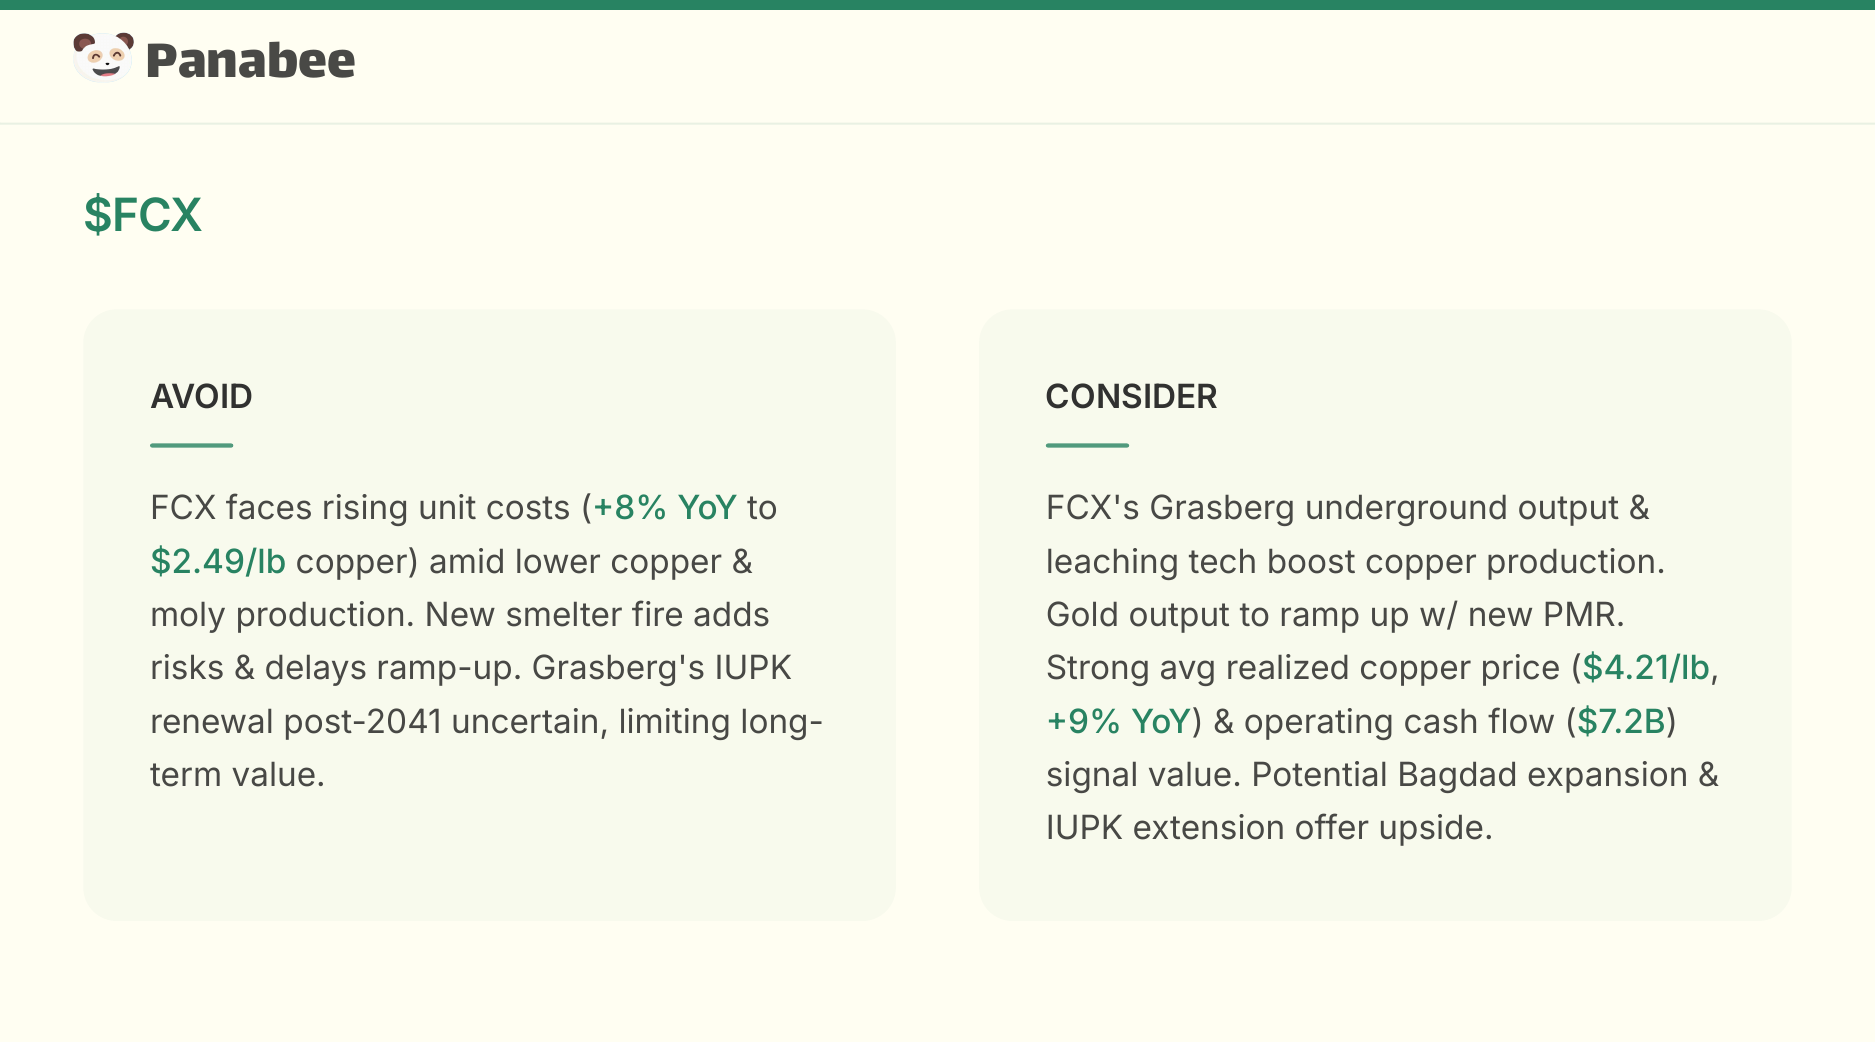
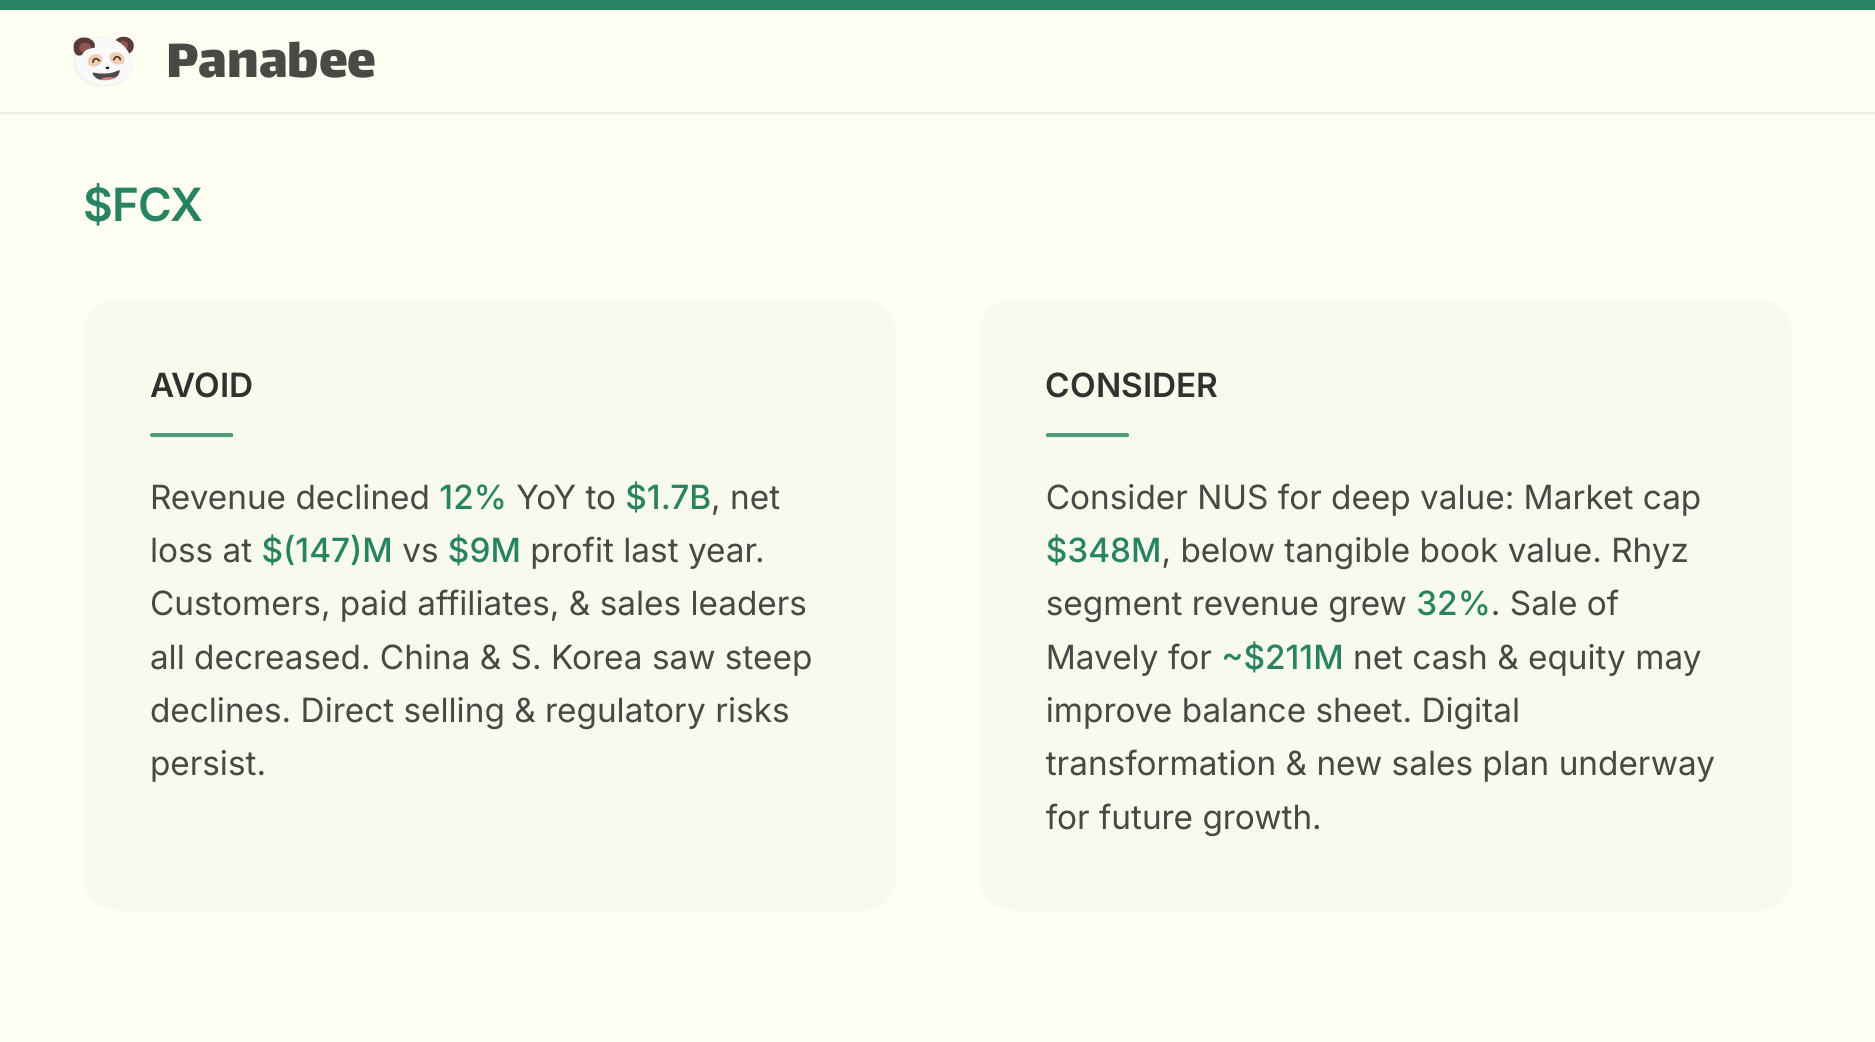
fixed

diff --git a/html.html b/html.html
@@ -1,10 +1,11 @@
+
 <!DOCTYPE html>
 <html>
 <head>
   <link href="https://fonts.googleapis.com/css2?family=Inter:wght@300;400;500;600&family=Lalezar&display=swap" rel="stylesheet">
   <style>
   @page {
-    size: 900px 490px; /* Adjust height as needed */
+    size: 900px 500px; /* Adjust height as needed */
     margin: 0;
   }
     body {
@@ -27,10 +28,11 @@
       background: #288362;
     }
     .header {
-      padding: 5px 30px;
+      padding-top: 5px;
+      padding-left: 30px;
+
       display: flex;
-      align-items: center;
-      gap: 100px;
+      align-items:center;
       border-bottom: 1px solid rgba(40, 131, 98, 0.1);
     }
     .logo {
@@ -40,8 +42,10 @@
       top: -2px;
     }
     .wordmark {
+      margin-left: 10px;
       color: rgba(28, 28, 28, 0.8);
       font-family: 'Lalezar', 'Inter', sans-serif;
+      height:fit-content;
       font-size: 28px;
     }
     .content {
@@ -106,15 +110,15 @@
       <div class="wordmark">Panabee</div>
     </div>
     <div class="content">
-      <div class="ticker">$FCX</div>
+      <div class="ticker">{ticker}</div>
       <div class="analysis-grid">
         <div class="analysis-section-horizontal">
           <h2>AVOID</h2>
-          <p class="analysis-content">FCX faces rising unit costs (<span class="stat">+8% YoY</span> to <span class="stat">$2.49/lb</span> copper) amid lower copper & moly production. New smelter fire adds risks & delays ramp-up. Grasberg's IUPK renewal post-2041 uncertain, limiting long-term value.</p>
+          <p class="analysis-content">{avoid}</p>
         </div>
         <div class="analysis-section-horizontal">
           <h2>CONSIDER</h2>
-          <p class="analysis-content">FCX's Grasberg underground output & leaching tech boost copper production. Gold output to ramp up w/ new PMR. Strong avg realized copper price (<span class="stat">$4.21/lb</span>, <span class="stat">+9% YoY</span>) & operating cash flow (<span class="stat">$7.2B</span>) signal value. Potential Bagdad expansion & IUPK extension offer upside.</p>
+          <p class="analysis-content">{consider}</p>
         </div>
       </div>
     </div>

diff --git a/HTMLtoImage.py b/HTMLtoImage.py
@@ -1,6 +1,7 @@
 from weasyprint import HTML
 from pdf2image import convert_from_bytes
 from PIL import Image
+import re
 
 def html_to_image(html_content: str, output_file: str):
     
@@ -17,75 +18,77 @@ def html_to_image(html_content: str, output_file: str):
     final_image.save(output_file, 'PNG')
     print(f"Image saved to {output_file}")
 
-
-html_content = """
+def avoidAndConsder(avoid, consider):
+  ticker = "$FCX"
+  html_content = f"""
 <!DOCTYPE html>
 <html>
 <head>
   <link href="https://fonts.googleapis.com/css2?family=Inter:wght@300;400;500;600&family=Lalezar&display=swap" rel="stylesheet">
   <style>
-  @page {
+  @page {{
     size: 900px 500px; /* Adjust height as needed */
     margin: 0;
-  }
-    body {
+  }}
+    body {{
       margin: 0;
       padding: 0;
       background: #FFFEF2;
       font-family: 'Inter', sans-serif;
       -webkit-font-smoothing: antialiased;
-    }
-    .container {
+    }}
+    .container {{
       width: 900px;
       min-height: 400px;
       background: #FFFEF2;
       position: relative;
       padding-bottom: 40px;
-    }
-    .top-bar {
+    }}
+    .top-bar {{
       width: 100%;
       height: 5px;
       background: #288362;
-    }
-    .header {
-      padding: 5px 30px;
+    }}
+    .header {{
+      padding-top: 5px;
+      padding-left: 30px;
       display: flex;
-      gap: 10px;
+      align-items:center;
       border-bottom: 1px solid rgba(40, 131, 98, 0.1);
-    }
-    .logo {
+    }}
+    .logo {{
       width: 40px;
       height: 40px;
       position: relative;
-      top: -2px;
-    }
-    .wordmark {
+    }}
+    .wordmark {{
+      margin-left: 10px;
       color: rgba(28, 28, 28, 0.8);
       font-family: 'Lalezar', 'Inter', sans-serif;
       font-size: 28px;
-    }
-    .content {
+    }}
+    .content {{
       padding: 30px 40px 40px;
-    }
-    .ticker {
+    }}
+    .ticker {{
       font-size: 22px;
       font-weight: 600;
       color: #288362;
       margin: 0 0 32px 0;
       letter-spacing: -0.5px;
-    }
-    .analysis-grid {
+    }}
+    .analysis-grid {{
       display: grid;
       grid-template-columns: 1fr 1fr;
       gap: 40px;
       margin-top: 20px;
-    }
-    .analysis-section-horizontal {
+    }}
+    .analysis-section-horizontal {{
       background: rgba(40, 131, 98, 0.03);
       border-radius: 16px;
       padding: 32px;
-    }
-    .analysis-section-horizontal h2 {
+    }}
+    .analysis-section-horizontal h2 {{
       font-size: 16px;
       font-weight: 600;
       margin: 0 0 16px 0;
@@ -93,8 +96,8 @@ html_content = """
       display: inline-block;
       position: relative;
       padding-bottom: 15px;
-    }
-    .analysis-section-horizontal h2::after {
+    }}
+    .analysis-section-horizontal h2::after {{
       content: '';
       position: absolute;
       bottom: 0;
@@ -104,18 +107,18 @@ html_content = """
       background: #288362;
       border-radius: 2px;
       opacity: 0.8;
-    }
-    .analysis-content {
+    }}
+    .analysis-content {{
       font-size: 16px;
       line-height: 1.6;
       margin: 0;
       color: rgba(28, 28, 28, 0.8);
       font-weight: 400;
-    }
-    .stat {
+    }}
+    .stat {{
       color: #288362;
       font-weight: 500;
-    }
+    }}
   </style>
 </head>
 <body>
@@ -126,15 +129,15 @@ html_content = """
       <div class="wordmark">Panabee</div>
     </div>
     <div class="content">
-      <div class="ticker">$FCX</div>
+      <div class="ticker">{ticker}</div>
       <div class="analysis-grid">
         <div class="analysis-section-horizontal">
           <h2>AVOID</h2>
-          <p class="analysis-content">FCX faces rising unit costs (<span class="stat">+8% YoY</span> to <span class="stat">$2.49/lb</span> copper) amid lower copper & moly production. New smelter fire adds risks & delays ramp-up. Grasberg's IUPK renewal post-2041 uncertain, limiting long-term value.</p>
+          <p class="analysis-content">{avoid}</p>
         </div>
         <div class="analysis-section-horizontal">
           <h2>CONSIDER</h2>
-          <p class="analysis-content">FCX's Grasberg underground output & leaching tech boost copper production. Gold output to ramp up w/ new PMR. Strong avg realized copper price (<span class="stat">$4.21/lb</span>, <span class="stat">+9% YoY</span>) & operating cash flow (<span class="stat">$7.2B</span>) signal value. Potential Bagdad expansion & IUPK extension offer upside.</p>
+          <p class="analysis-content">{consider}</p>
         </div>
       </div>
     </div>
@@ -142,6 +145,30 @@ html_content = """
 </body>
 </html>
 """
+  return html_content
+def createCSS(avoid, consider):
+    pattern = r'~?\$?\(?-?\d+(?:\.\d+)?\)?%?[MB]?'
+    
+    new_avoid = re.sub(pattern, r'<span class="stat">\g<0></span>', avoid)
+
+    new_consider = re.sub(pattern, r'<span class="stat">\g<0></span>', consider)
+
+    return avoidAndConsder(new_avoid, new_consider)
+  
+  
+  
+avoid = "Revenue declined 12% YoY to $1.7B, net loss at $(147)M vs $9M profit last year. Customers, paid affiliates, & sales leaders all decreased. China & S. Korea saw steep declines. Direct selling & regulatory risks persist."
+
+consider = "Consider NUS for deep value: Market cap $348M, below tangible book value. Rhyz segment revenue grew 32%. Sale of Mavely for ~$211M net cash & equity may improve balance sheet. Digital transformation & new sales plan underway for future growth."
+
 
 output_path = "output4.png"
-html_to_image(html_content, output_path)
+
+html_to_image(createCSS(avoid, consider), output_path)
+
+   
+
+
+
+
+
